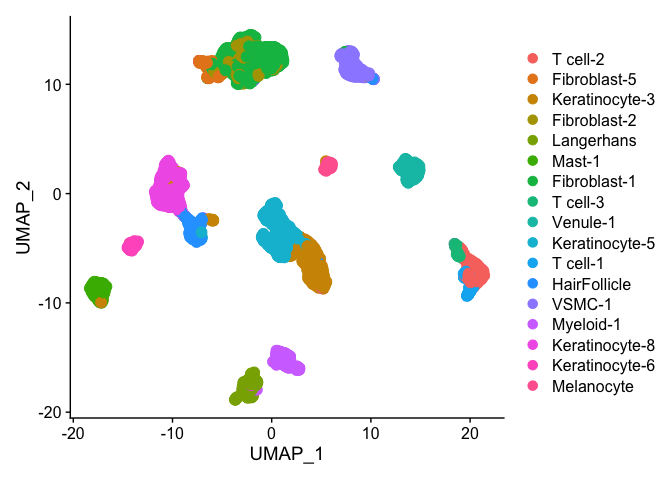
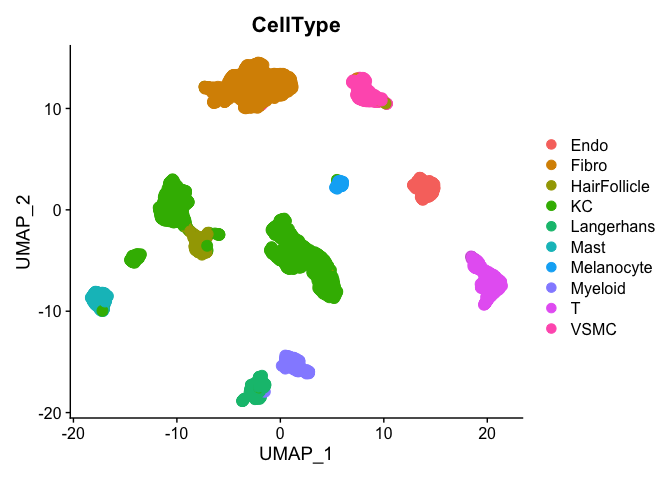
Updated Travis data notebook.

diff --git a/README.html b/README.html
@@ -365,7 +365,6 @@ pre code {
 </div>
 
 
-<hr />
 <div id="spatial-hp-skin" class="section level1">
 <h1>Spatial-HP-Skin</h1>
 <p>This repo will cover all of the code linked to <strong>Castillo et
@@ -396,29 +395,11 @@ please select the figure number in the table of contents found on top of
 the notebook to .</p>
 <div id="figure-1" class="section level3">
 <h3>FIGURE 1</h3>
-<p>&lt;&lt;&lt;&lt;&lt;&lt;&lt; HEAD | FIGURE NO | NOTEBOOK LINK |
-DESCRIPTION |
-|———–|————————————————————————————————————–|———————————————————————————-|
-| 1B | <a href="https://github.com/IkjotSidhu/Spatial-HP-Skin/blob/main/ST_HEALTHY_SAMPLES_FIGURE_1.md">link</a>
-| Spatial Plot - Healthy sample with cluster labels | | 1C | <a href="https://github.com/IkjotSidhu/Spatial-HP-Skin/blob/main/ST_HEALTHY_SAMPLES_FIGURE_1.md">link</a>
-| UMAP (Healthy samples only) - with spatial regions labels | | 1D | <a href="https://github.com/IkjotSidhu/Spatial-HP-Skin/blob/main/ST_HEALTHY_SAMPLES_FIGURE_1.md">link</a>
-| Percentage composition (Healthy samples only) | | 1E | <a href="https://github.com/IkjotSidhu/Spatial-HP-Skin/blob/main/ST_HEALTHY_SAMPLES_PART_2_TRAVIS_DATA_.md">link</a>
-| Seurat Integeration (scRNA + ST data) showing cell type enrichment | |
-1G | <a href="https://github.com/IkjotSidhu/Spatial-HP-Skin/blob/main/ST_HEALTHY_SAMPLES_PART_2_TRAVIS_DATA_.md">link</a>
-| MIA - healthy skin with dataset 1 (Hughes et al.) - Structural cell
-types only | | 1H | <a href="https://github.com/IkjotSidhu/Spatial-HP-Skin/blob/main/ST_HEALTHY_SAMPLES_PART_3(REYNOLDS_DATA).md">link</a>
-| MIA - healthy skin with dataset 2 (Reynolds et al.) - Structural cell
-types only | | 1I | <a href="https://github.com/IkjotSidhu/Spatial-HP-Skin/blob/main/ST_HEALTHY_SAMPLES_PART-4(SULLIVAN_DATA).Rmd">link</a>
-| MIA - healthy skin with dataset 3 (Sullivan et al.) - APCs and
-Preadiplocytes |</p>
-</div>
-<div id="figure-2" class="section level3">
-<h3>FIGURE 2</h3>
 <table>
 <colgroup>
-<col width="5%" />
-<col width="55%" />
-<col width="39%" />
+<col width="6%" />
+<col width="53%" />
+<col width="40%" />
 </colgroup>
 <thead>
 <tr class="header">
@@ -429,7 +410,6 @@ Preadiplocytes |</p>
 </thead>
 <tbody>
 <tr class="odd">
-<<<<<<< HEAD
 <td>1B</td>
 <td><a href="https://github.com/IkjotSidhu/Spatial-HP-Skin/blob/main/ST_HEALTHY_SAMPLES_FIGURE_1.md">link</a></td>
 <td>Spatial Plot - Healthy sample with cluster labels</td>
@@ -452,51 +432,26 @@ enrichment</td>
 </tr>
 <tr class="odd">
 <td>1G</td>
-=======
-<td>2A</td>
->>>>>>> b0f1e7df754bb8da7926fd11723ce962608dc1b3
 <td><a href="https://github.com/IkjotSidhu/Spatial-HP-Skin/blob/main/ST_HEALTHY_SAMPLES_PART_2_TRAVIS_DATA_.md">link</a></td>
-<td>MIA - healthy skin with dataset 1 (Hughes et al.) - Immune cell
+<td>MIA - healthy skin with dataset 1 (Hughes et al.) - Structural cell
 types only</td>
 </tr>
 <tr class="even">
-<td>2B</td>
+<td>1H</td>
 <td><a href="https://github.com/IkjotSidhu/Spatial-HP-Skin/blob/main/ST_HEALTHY_SAMPLES_PART_3(REYNOLDS_DATA).md">link</a></td>
-<td>MIA - healthy skin with dataset 2 (Reynolds et al.) - Immune cell
-types only</td>
+<td>MIA - healthy skin with dataset 2 (Reynolds et al.) - Structural
+cell types only</td>
+</tr>
+<tr class="odd">
+<td>1I</td>
+<td><a href="https://github.com/IkjotSidhu/Spatial-HP-Skin/blob/main/ST_HEALTHY_SAMPLES_PART-4(SULLIVAN_DATA).Rmd">link</a></td>
+<td>MIA - healthy skin with dataset 3 (Sullivan et al.) - APCs and
+Preadiplocytes</td>
 </tr>
 </tbody>
 </table>
-<p>=======
-+————+————————————————————————————————————–+———————————————————————————-+
-| FIGURE NO | NOTEBOOK LINK | DESCRIPTION |
-+============+==============================================================================================================+==================================================================================+
-| 1B | <a href="https://github.com/IkjotSidhu/Spatial-HP-Skin/blob/main/ST_HEALTHY_SAMPLES_FIGURE_1.md">link</a>
-| Spatial Plot - Healthy sample with cluster labels |
-+————+————————————————————————————————————–+———————————————————————————-+
-| 1C | <a href="https://github.com/IkjotSidhu/Spatial-HP-Skin/blob/main/ST_HEALTHY_SAMPLES_FIGURE_1.md">link</a>
-| UMAP (Healthy samples only) - with spatial regions labels |
-+————+————————————————————————————————————–+———————————————————————————-+
-| 1D | <a href="https://github.com/IkjotSidhu/Spatial-HP-Skin/blob/main/ST_HEALTHY_SAMPLES_FIGURE_1.md">link</a>
-| Percentage composition (Healthy samples only) |
-+————+————————————————————————————————————–+———————————————————————————-+
-| 1E | <a href="https://github.com/IkjotSidhu/Spatial-HP-Skin/blob/main/ST_HEALTHY_SAMPLES_PART_2(TRAVIS_DATA).md">link</a>
-| Seurat Integeration (scRNA + ST data) showing cell type enrichment |
-+————+————————————————————————————————————–+———————————————————————————-+
-| 1G | <a href="https://github.com/IkjotSidhu/Spatial-HP-Skin/blob/main/ST_HEALTHY_SAMPLES_PART_2(TRAVIS_DATA).md">link</a>
-| MIA - healthy skin with dataset 1 (Hughes et al.) - Structural cell
-types only |
-+————+————————————————————————————————————–+———————————————————————————-+
-| 1H | <a href="https://github.com/IkjotSidhu/Spatial-HP-Skin/blob/main/ST_HEALTHY_SAMPLES_PART_3(REYNOLDS_DATA).md">link</a>
-| MIA - healthy skin with dataset 2 (Reynolds et al.) - Structural cell
-types only |
-+————+————————————————————————————————————–+———————————————————————————-+
-| 1I | <a href="https://github.com/IkjotSidhu/Spatial-HP-Skin/blob/main/ST_HEALTHY_SAMPLES_PART-4(SULLIVAN_DATA).Rmd">link</a>
-| MIA - healthy skin with dataset 3 (Sullivan et al.) - APCs and
-Preadiplocytes |
-+————+————————————————————————————————————–+———————————————————————————-+</p>
 </div>
-<div id="figure-2-1" class="section level3">
+<div id="figure-2" class="section level3">
 <h3>FIGURE 2</h3>
 <table>
 <colgroup>
@@ -514,7 +469,7 @@ Preadiplocytes |
 <tbody>
 <tr class="odd">
 <td>2A</td>
-<td><a href="https://github.com/IkjotSidhu/Spatial-HP-Skin/blob/main/ST_HEALTHY_SAMPLES_PART_2(TRAVIS_DATA).md">link</a></td>
+<td><a href="https://github.com/IkjotSidhu/Spatial-HP-Skin/blob/main/ST_HEALTHY_SAMPLES_PART_2_TRAVIS_DATA_.md">link</a></td>
 <td>MIA - healthy skin with dataset 1 (Hughes et al.) - Immune cell
 types only</td>
 </tr>
@@ -526,21 +481,6 @@ types only</td>
 </tr>
 </tbody>
 </table>
-<blockquote>
-<blockquote>
-<blockquote>
-<blockquote>
-<blockquote>
-<blockquote>
-<blockquote>
-<p>179277dc5f653b679f3d3f4f5ca7086b76c504cb</p>
-</blockquote>
-</blockquote>
-</blockquote>
-</blockquote>
-</blockquote>
-</blockquote>
-</blockquote>
 </div>
 <div id="figure-3" class="section level3">
 <h3>FIGURE 3</h3>
@@ -621,7 +561,6 @@ only)</td>
 </div>
 <div id="supplementary-figure-3" class="section level3">
 <h3>SUPPLEMENTARY FIGURE 3</h3>
-<<<<<<< HEAD
 <table>
 <colgroup>
 <col width="8%" />
@@ -648,20 +587,6 @@ only)</td>
 </tr>
 </tbody>
 </table>
-=======
-<p>&lt;&lt;&lt;&lt;&lt;&lt;&lt; HEAD | FIGURE NO | NOTEBOOK LINK |
-DESCRIPTION | |———–|————————————————————————————————————-|————-| | S3-A
-| <a href="https://github.com/IkjotSidhu/Spatial-HP-Skin/blob/main/ST_HEALTHY_SAMPLES_PART_2_TRAVIS_DATA_.md">link</a>
-| | | S3-B | <a href="https://github.com/IkjotSidhu/Spatial-HP-Skin/blob/main/ST_HEALTHY_SAMPLES_PART_3(REYNOLDS_DATA).md">link</a>
-| | ======= +———–+————————————————————————————————————-+——————-+ |
-FIGURE NO | NOTEBOOK LINK | DESCRIPTION |
-+===========+=============================================================================================================+===================+
-| S3-A | <a href="https://github.com/IkjotSidhu/Spatial-HP-Skin/blob/main/ST_HEALTHY_SAMPLES_PART_2(TRAVIS_DATA).md">link</a>
-| | +———–+————————————————————————————————————-+——————-+ | S3-B | <a href="https://github.com/IkjotSidhu/Spatial-HP-Skin/blob/main/ST_HEALTHY_SAMPLES_PART_3(REYNOLDS_DATA).md">link</a>
-| | +———–+————————————————————————————————————-+——————-+
-&gt;&gt;&gt;&gt;&gt;&gt;&gt;
-179277dc5f653b679f3d3f4f5ca7086b76c504cb</p>
->>>>>>> b0f1e7df754bb8da7926fd11723ce962608dc1b3
 </div>
 <div id="supplementary-figure-4" class="section level3">
 <h3>SUPPLEMENTARY FIGURE 4</h3>

diff --git a/ST_HEALTHY_SAMPLES_PART_2_TRAVIS_DATA_.md b/ST_HEALTHY_SAMPLES_PART_2_TRAVIS_DATA_.md
@@ -9,6 +9,13 @@ TRAVIS HUGHES et al single cell- healthy skin subset
 
 ### Load all of the required packages
 
+| FIGURE NO | LINK         |
+|-----------|--------------|
+| 2B        | [link](#2b)  |
+| 3A        | [link](#3a)  |
+| S3A       | [link](#s3a) |
+| 1E        | [link](#1e)  |
+
 ``` r
 library(tidyverse)
 ```
@@ -353,6 +360,8 @@ library(pheatmap)
 col.pal <- RColorBrewer::brewer.pal(9, "OrRd")
 ```
 
+<a id="2b">
+
 ``` r
 MIA_results <- MIA(total_genes = length(all.genes.scrna_and_spt),single_cell.markers = filtered_single_cell.markers,spatial.markers = filtered_spatial_markers)
 
@@ -363,9 +372,13 @@ pheatmap(E.data,cluster_cols = FALSE,cluster_rows = FALSE,fontsize=15,color = co
 
 ![](ST_HEALTHY_SAMPLES_PART_2_TRAVIS_DATA__files/figure-gfm/unnamed-chunk-17-1.png)<!-- -->
 
+</a>
+
 ## Figure - 3A
 
 ### Immune cell types
+
+<a id="3a">
 
 ``` r
 immune_only.E.data <- E.data[,c("T cell-1","T cell-2","T cell-3","Myeloid-1","Langerhans","Mast-1","Mast-2")]
@@ -378,6 +391,8 @@ pheatmap(immune_only.E.data,cluster_cols = FALSE,cluster_rows = FALSE,fontsize=1
 ``` r
 #dev.off()
 ```
+
+</a>
 
 ### Strucutural cell types
 
@@ -412,6 +427,8 @@ cols <- SpatialColors(n = 100)
 ```
 
 ## Figure -1E
+
+<a id="1e">
 
 ``` r
 Cell_types <- c("Fibroblast-1","HairFollicle","Keratinocyte-5","Keratinocyte-3","Sebocyte","VSMC-1","Melanocyte")
@@ -455,11 +472,13 @@ for (x in Cell_types){
 
 ![](ST_HEALTHY_SAMPLES_PART_2_TRAVIS_DATA__files/figure-gfm/unnamed-chunk-22-6.png)<!-- -->![](ST_HEALTHY_SAMPLES_PART_2_TRAVIS_DATA__files/figure-gfm/unnamed-chunk-22-7.png)<!-- -->
 
+</a>
+
 ### Overall cell frequencies in healthy subset data
 
 ``` r
 cell.counts <- as.data.frame(table(travis_NM_skin_scRNA@meta.data$Specific_CellType))
-write.csv(cell.counts,file="../../TRAVIS_scRNA_DATA/CELL_COUNTS_TRAVIS_HEALTHY_SKIN_DATA.csv")
+#write.csv(cell.counts,file="../../TRAVIS_scRNA_DATA/CELL_COUNTS_TRAVIS_HEALTHY_SKIN_DATA.csv")
 ```
 
 ### Filtered out cell types with less than 50 cells
@@ -476,9 +495,11 @@ DimPlot(travis_healthy_data.subset,pt.size = 2.5)
 
 ### Supplementary Figure - S3A
 
+<a id="s3a">
+
 ``` r
 #pdf(width = 12,height=8,file = "UMAP_TRAVIS_DATA_HEALTHY_SAMPLES_ONLY.pdf")
-DimPlot(travis_healthy_data.subset,pt.size = 3.5)
+DimPlot(travis_healthy_data.subset,pt.size = 3.5,group.by = "CellType")
 ```
 
 ![](ST_HEALTHY_SAMPLES_PART_2_TRAVIS_DATA__files/figure-gfm/unnamed-chunk-25-1.png)<!-- -->
@@ -486,6 +507,8 @@ DimPlot(travis_healthy_data.subset,pt.size = 3.5)
 ``` r
 #dev.off()
 ```
+
+</a>
 
 ### Data for Venn diagram - Figure 1F
 

diff --git a/README.md b/README.md
@@ -1,7 +1,3 @@
----
----
----
-
 # Spatial-HP-Skin
 
 This repo will cover all of the code linked to **Castillo et al.**
